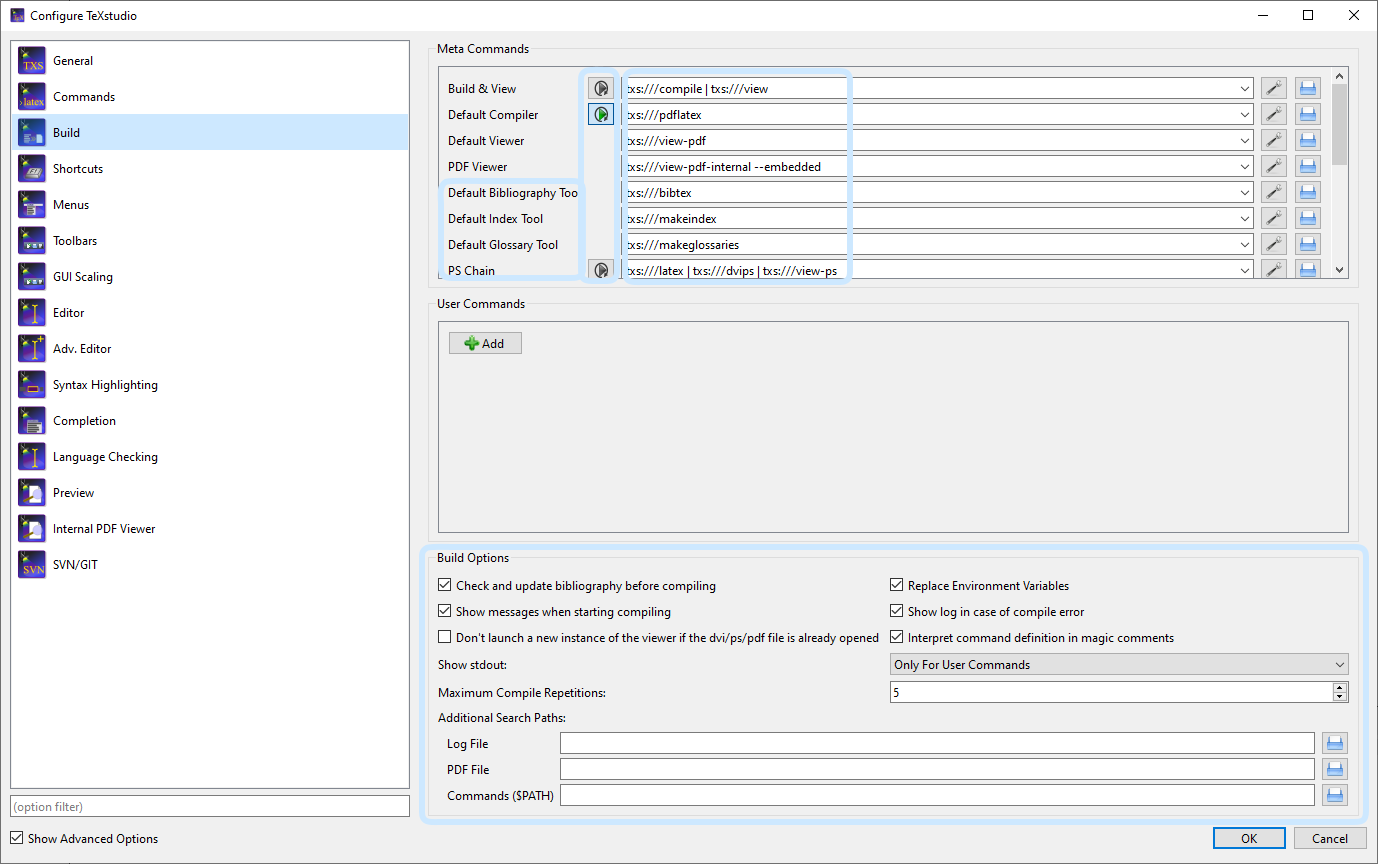
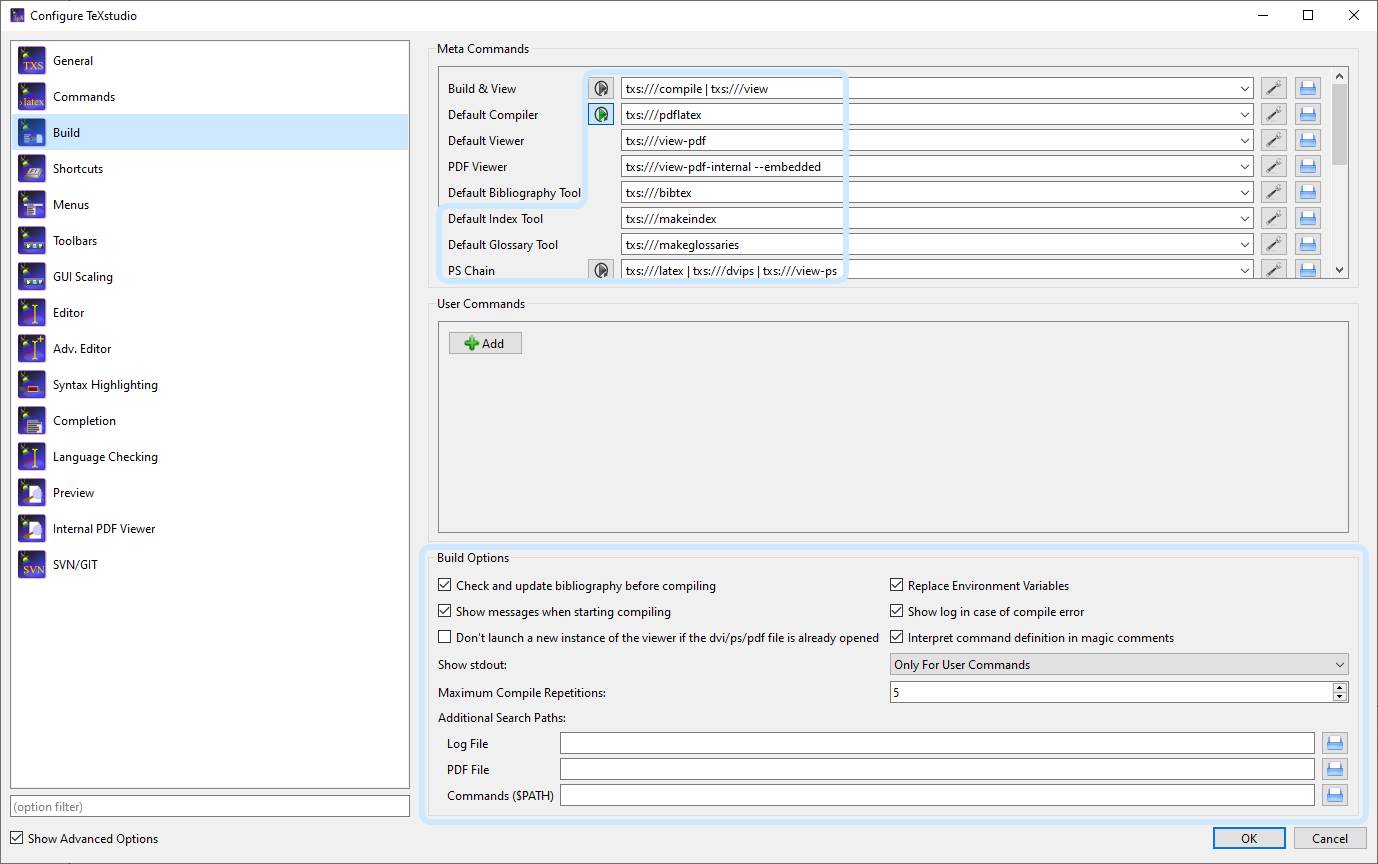
some more images and changes

Changed region(s): [[0.312, 0.0625, 0.4681, 0.3438], [0.5929, 0.0625, 0.6241, 0.3438]]

diff --git a/utilities/manual/usermanual_en.html b/utilities/manual/usermanual_en.html
@@ -23,9 +23,9 @@
 	</ul>
 	<li><a href="#SECTION05">1.4 Configuring shortcuts</a></li>
 	<li><a href="#SECTION06">1.5 Configuring the Tools, Latex, and Math Menu</a></li>
-	<li><a href="#SECTION07">1.6 Configuring the Custom Toolbar</a></li>
+	<li><a href="#SECTION07">1.6 Configuring Toolbars</a></li>
 	<li><a href="#SECTIONCONFIGGUISCALING">1.7 Configuring the GUI Scaling</a></li>
-	<li><a href="#SECTION01">1.8 Configuring the editor</a></li>
+	<li><a href="#SECTION01">1.8 Configuring the Editor</a></li>
 	<li><a href="#SECTIONCONFIGADVEDITOR">1.9 Configuring the Adv. Editor</a></li>
 	<li><a href="#SECTIONCONFIGSYNTAXHIGHLIGHTING">1.10 Configuring the Syntax Highlighting</a></li>
 	<li><a href="#SECTION040">1.11 Configuring the autocompletion</a></li>
@@ -194,8 +194,9 @@ on both levels. The following table gives an overview:</p>
 	<tr> <td> <a href="#SECTION08">SVN/GIT                                   </a></td> <td> x </td>  <td> same </td> </tr>
 </table>
 
-<p>The following sections show screenshots of the configuration for these groups including advanced options. The advanced options are framed in blue. So you can
-easily recognize which options are not available in standard mode. All options are framed for groups that are only present in advanced mode.</p>
+<p>The following sections show screenshots of the configuration for these groups including advanced options. The advanced options are framed in blue (but only
+in the pictures). So you can easily recognize which options are not available in standard mode. Groups only present in advanced mode show a large blue frame
+surroundig all options.</p>
 
 <h2 id="SECTION030">1.1 Configuring some general issues</h2>
 
@@ -252,14 +253,26 @@ The advanced options allows finer customization which is in general not necessar
 
 <!-- <p><IMG src="configure_build.png" border="1" alt="Configure Build System"></p> -->
 <figure>
-	<IMG src="ConfigureTeXstudioBuildAdvancedMarked.png" border="1" alt="Configure Editor">
+	<IMG src="ConfigureTeXstudioBuildAdvancedMarked.png" border="1" alt="Configure Build">
 	<figcaption>Build options</figcaption>
+</figure>
+
+<p>The following image shows the upper part of the Build configuration when set to standard options. The dropdown lists show command descriptions instead of the commands.</p>
+
+<figure>
+	<IMG src="ConfigureTeXstudioBuildStandardPartial.png" border="1" alt="Configure Build in standard mode">
+	<figcaption>Upper part of the standard Build options</figcaption>
 </figure>
 
 <p>User commands can be defined here by "adding" them. Each user command has a name with a pattern <code>&lt;command id&gt;:&lt;display name&gt;</code>, e.g. <code>user0:User Command 0</code>. The command id has to be unique and must not contain spaces. In <a href="#SECTION02a1">advanced mode</a>, you can reference it using <code>txs:///"&lt;command id&gt;</code>. The display name will be shown in the tools menu. The user commands can be activated either by short cut (alt+shift+F%n) or by the tools menu (Tools/User).<br>
 User commands can either consist of a combination of known commands by selecting them from a list of available commands. This is triggered by clicking the spanner-symbol.<br>
 Alternatively a command can be directly selected through the file system.</p>
-<p><IMG src="doc21.png" border="1" alt="Configure user commands from known commands"></p>
+
+<!-- <p><IMG src="doc21.png" border="1" alt="Configure user commands from known commands"></p> -->
+<figure>
+	<IMG src="ConfigureTeXstudioQuickBuildCommand.png" border="1" alt="Configure Build User Commands">
+	<figcaption>Configure user commands from known commands</figcaption>
+</figure>
 
 <h3 id="SECTION02a1">1.3.1 Advanced configuration of the build system</h3>
 
@@ -378,9 +391,8 @@ A rough overview of the available (default) keyboard shortcuts can be found in <
 
 <h2 id="SECTION06">1.5 Configuring the Tools, Latex, and Math Menu (Advanced options only)</h2>
 
-<p>The Math/Latex-Menu can be adapted to user likings.
-For this menu items can be renamed and a new Latex-Code can be placed. The appropriate item can be be directly edited by doubleclicking on them.
-</p>
+<p>The Tools, Latex, and Math menu can be adapted to user likings. For this menu items can be renamed and a new LaTeX-Code can be placed. The appropriate item
+can be be directly edited by doubleclicking on them.</p>
 
 <!-- <p><IMG src="configure_customizeMenu.png" border="1" alt="Customize Menu"></p> -->
 <figure>
@@ -388,11 +400,11 @@ For this menu items can be renamed and a new Latex-Code can be placed. The appro
 	<figcaption>Menus customization</figcaption>
 </figure>
 
-<h2 id="SECTION07">1.6 Configuring the Custom Toolbar (Advanced options only)</h2>
+<h2 id="SECTION07">1.6 Configuring Toolbars (Advanced options only)</h2>
 
-<p>One Custom Toolbar is present in TMX. This toolbar can be filled with actions from the Latex-, Math- and User-Menu.
-Since many of those item don't have icons, user icons can be loaded as well. This is achieved by applying "load other icon" from the context menu on a item in the custom toolbar list in the configure dialog.
-</p>
+<p>Not only the Custom Toolbar is configurable in TeXstudio, all toolbars can be customized. You can add items from any menu or remove items from any toolbar.
+Since many of those items don't have icons, user icons can be loaded as well. This is achieved by applying "load other icon" from the context menu on a item in
+the toolbar list in the configure dialog.</p>
 
 <!-- <p><IMG src="configure_customToolbar.png" border="1" alt="Customize Toolbars"></p> -->
 <figure>
@@ -407,10 +419,10 @@ Since many of those item don't have icons, user icons can be loaded as well. Thi
 	<figcaption>GUI Scaling options</figcaption>
 </figure>
 
-<h2 id="SECTION01">1.8 Configuring the editor</h2>
+<h2 id="SECTION01">1.8 Configuring the Editor</h2>
 
 <p>
-You may change the default encoding for new files ("Configure TeXstudio" -> "Editor" -> "Editor Font Encoding") if you don't want utf8 as encoding. Don't forget to set the same encoding in the preamble of your documents. (e.g. <code>\usepackage[utf8]{inputenc}</code>, if you use utf-8).<br>
+You may change the default encoding for new files ("Configure TeXstudio" -> "Editor" -> "Default Font Encoding") if you don't want utf8 as encoding. Don't forget to set the same encoding in the preamble of your documents. (e.g. <code>\usepackage[utf8]{inputenc}</code>, if you use utf-8).<br>
 TeXstudio can auto detect utf-8 and latin1 encoded files, but if you use a different encoding in your existing documents you have to specify it in the configuration dialog before opening them. (and then you also have to disable the auto detection)
 </p>
 <ul>
@@ -427,8 +439,13 @@ TeXstudio can auto detect utf-8 and latin1 encoded files, but if you use a diffe
 <h2 id="SECTIONCONFIGADVEDITOR">1.9 Configuring the Adv. Editor (Advanced options only)</h2>
 
 <figure>
-	<IMG src="ConfigureTeXstudioAdvEditorAdvancedOnly.png" border="1" alt="Configure Adv. Editor">
-	<figcaption>Adv. Editor options</figcaption>
+	<IMG src="ConfigureTeXstudioAdvEditorAdvancedOnly.png" border="1" alt="Configure Adv. Editor Part 1">
+	<figcaption>Adv. Editor options part 1</figcaption>
+</figure>
+
+<figure>
+	<IMG src="ConfigureTeXstudioAdvEditorAdvancedOnly2.png" border="1" alt="Configure Adv. Editor Part 2">
+	<figcaption>Adv. Editor options part 2</figcaption>
 </figure>
 
 <h2 id="SECTIONCONFIGSYNTAXHIGHLIGHTING">1.10 Configuring the Syntax Highlighting</h2>
@@ -539,8 +556,8 @@ Once you have a working copy, TeXstudio can operate on it.
 <p>
 "Automatically check in after save" allows TeXstudio to perform an SVN check in after every save of a document, thus providing a very complete history of the creation of a document.
 Since text documents are rather small compared to disk spaces, size of the SVN database should not be a problem.
-In addition newly saved files (save as) are automatically added to SVN control,provided that the directory is already under SVN control.
-If that is not the case, TeXstudio searches in "SVN Directory Search Depth" directory above the current diorectory for a SVN controlled directory to which the subdirectories and the TeX-Document will be added.
+In addition newly saved files (save as) are automatically added to SVN control, provided that the directory is already under SVN control.
+If that is not the case, TeXstudio searches in "SVN Directory Search Depth" directory above the current directory for a SVN controlled directory to which the subdirectories and the TeX-Document will be added.
 If no appropriate directory is found, a repository is automatically generated in a directory called "./repo" and the document is added.
 Thus the user does not need to look up the necessary commands to set up a repository. This functionality is only activated when "Auto checkin in" is enabled !
 </p>
